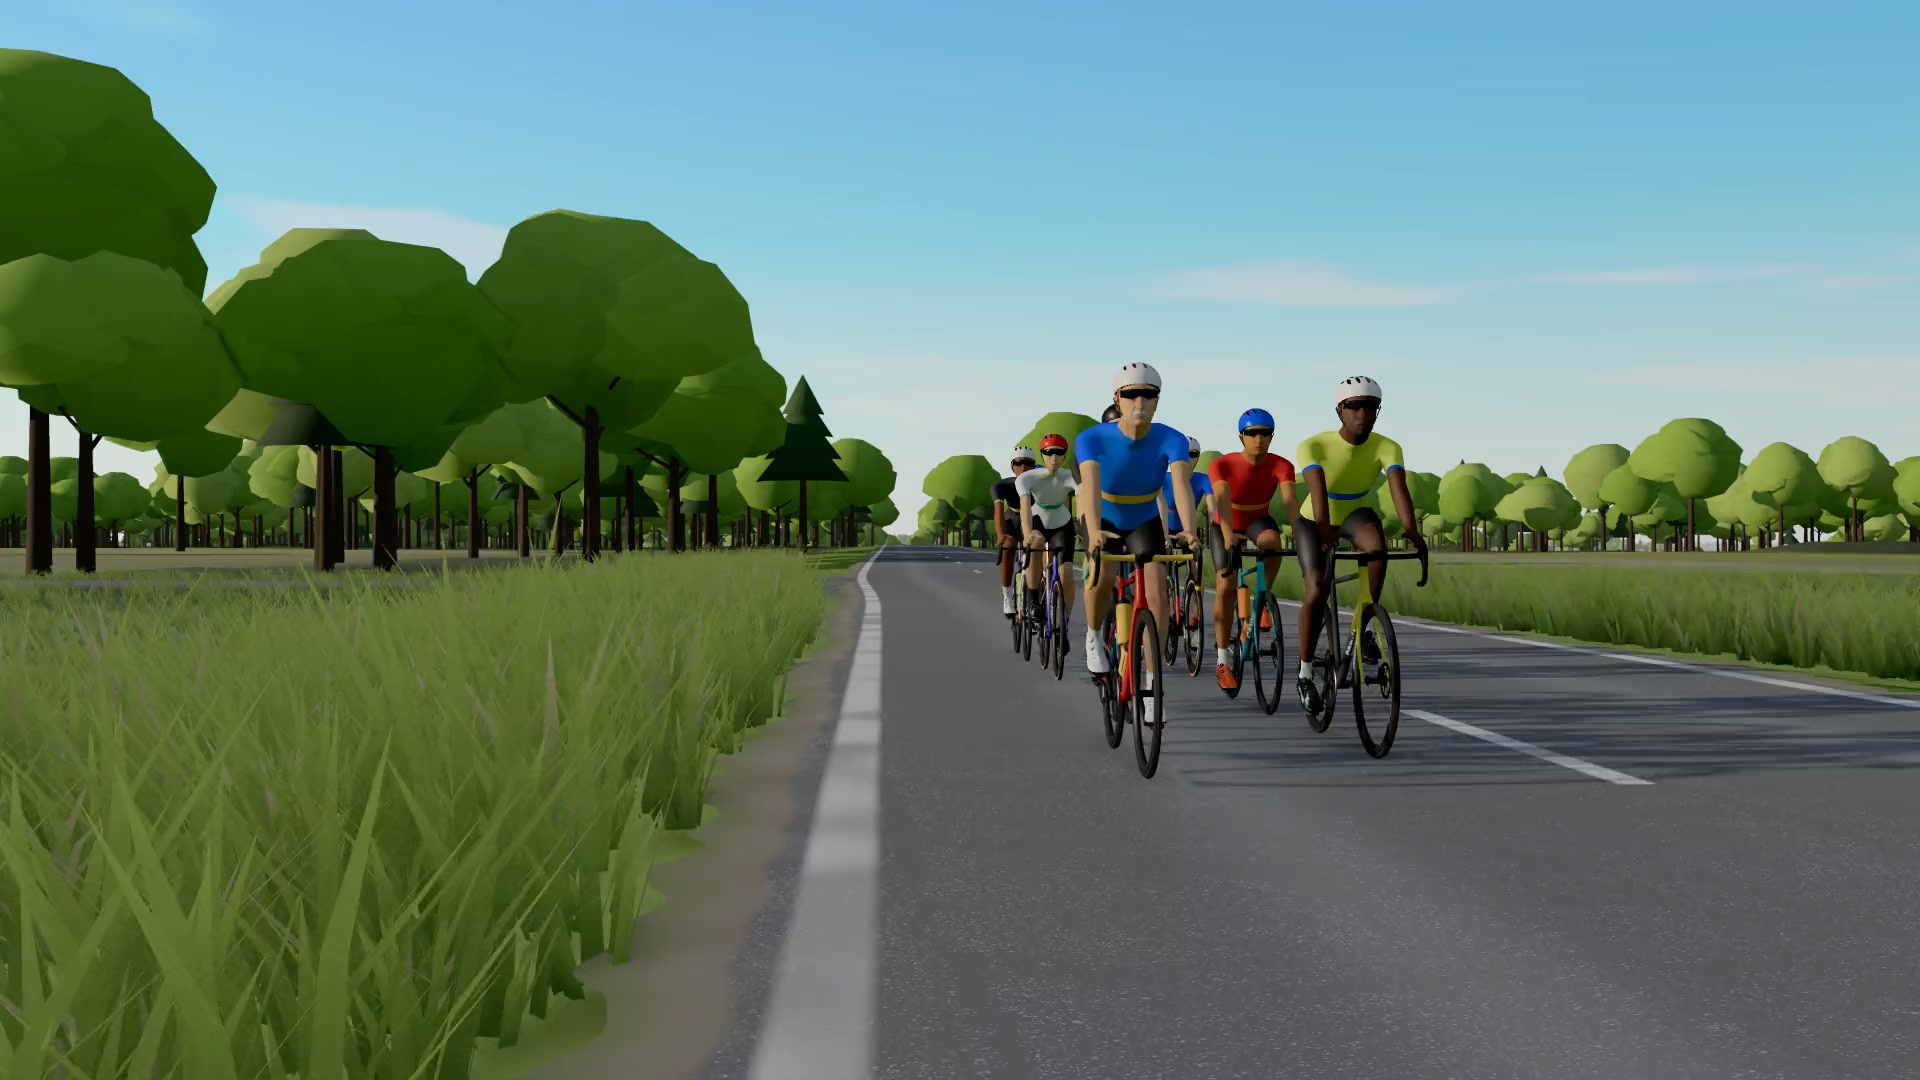
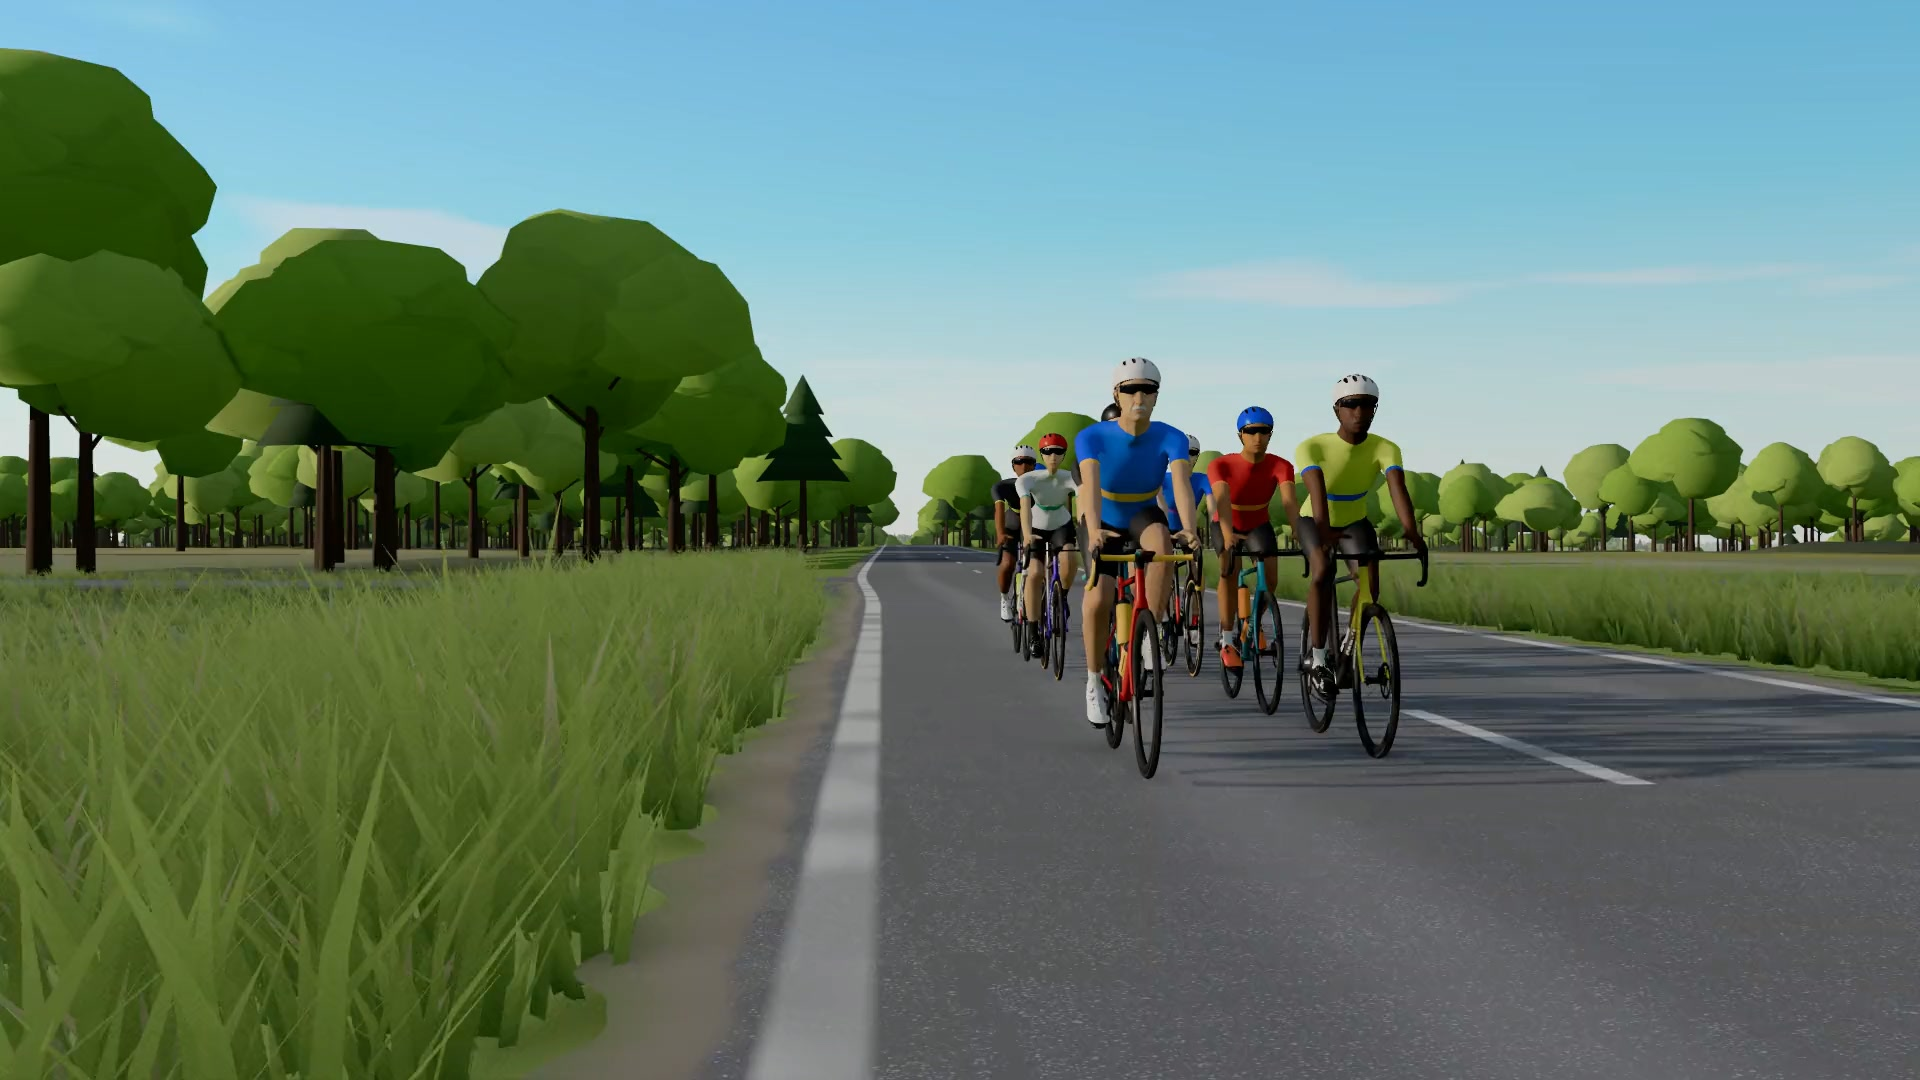
feat(menu) : boucles d'accueil refaites (cou redressé, rameaux d'hiver, route sans reflet), images fixes et version des médias (6)

Changed region(s): [[0.5, 0.3361, 0.7188, 0.6722], [0.7188, 0.4278, 0.75, 0.4583]]

diff --git a/apps/client/src/main.ts b/apps/client/src/main.ts
@@ -125,7 +125,7 @@ function worldOverlay(label: string): HTMLElement {
 }
 
 /** Version des médias du menu (vidéos, images) : à augmenter quand on les régénère (cache navigateur). */
-const MENU_MEDIA_VERSION = 5;
+const MENU_MEDIA_VERSION = 6;
 
 /** Boucle vidéo de la saison en fond du menu (public/menu/loop-<saison>.webm), sur son image fixe. */
 function createMenuVideo(el: HTMLVideoElement | null) {
